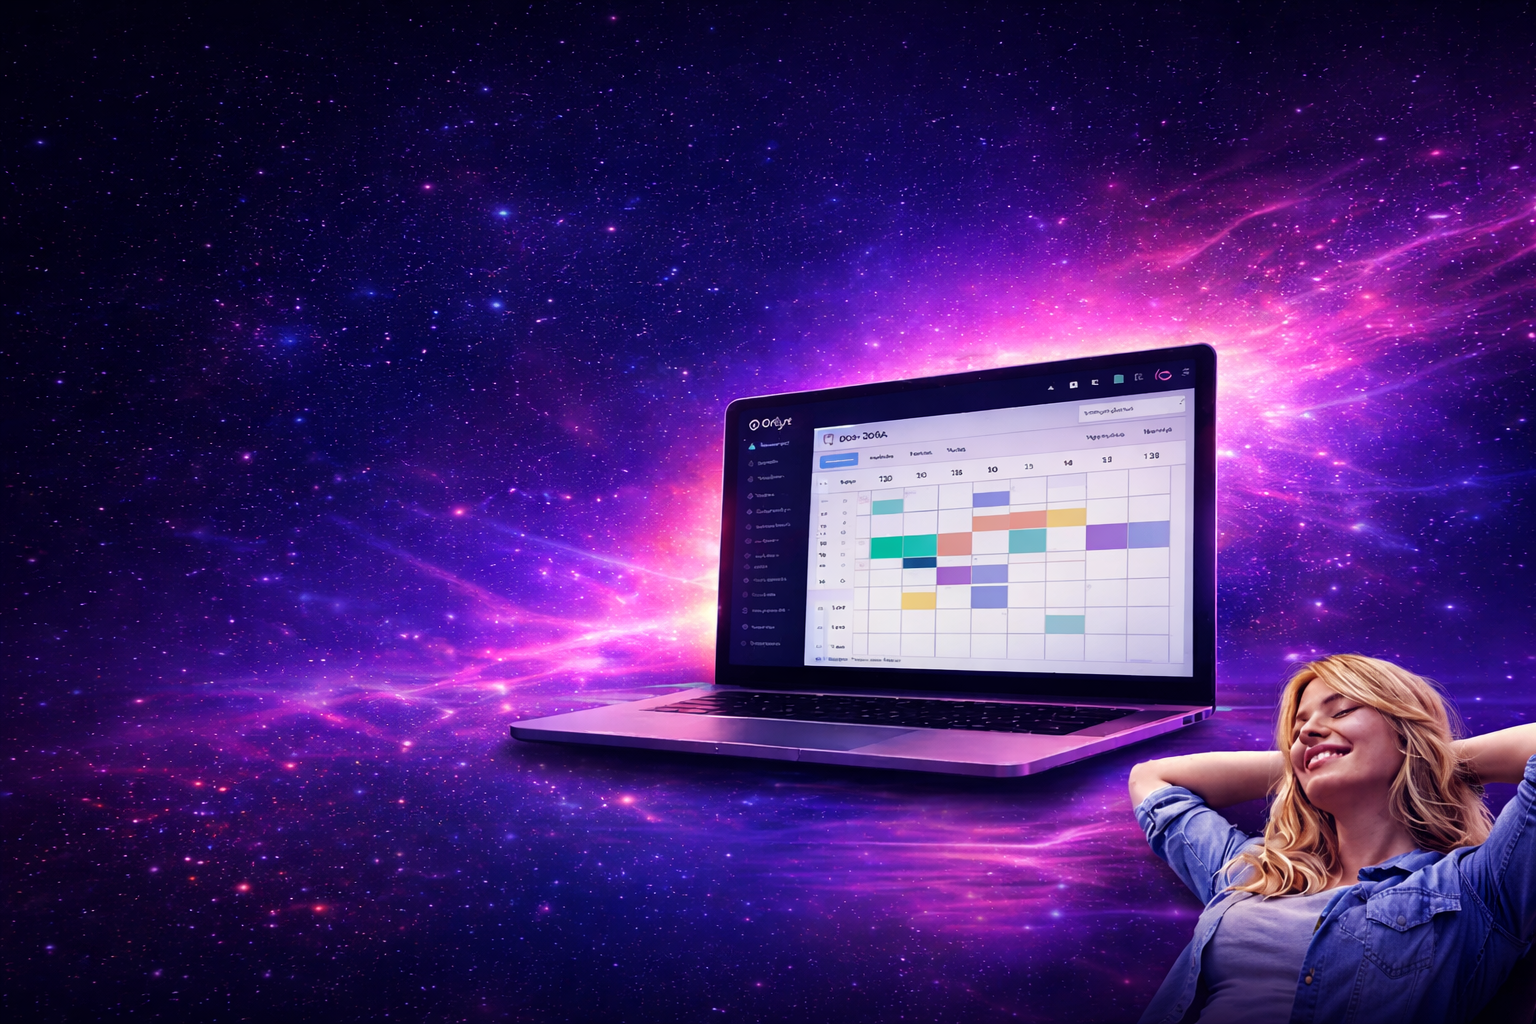
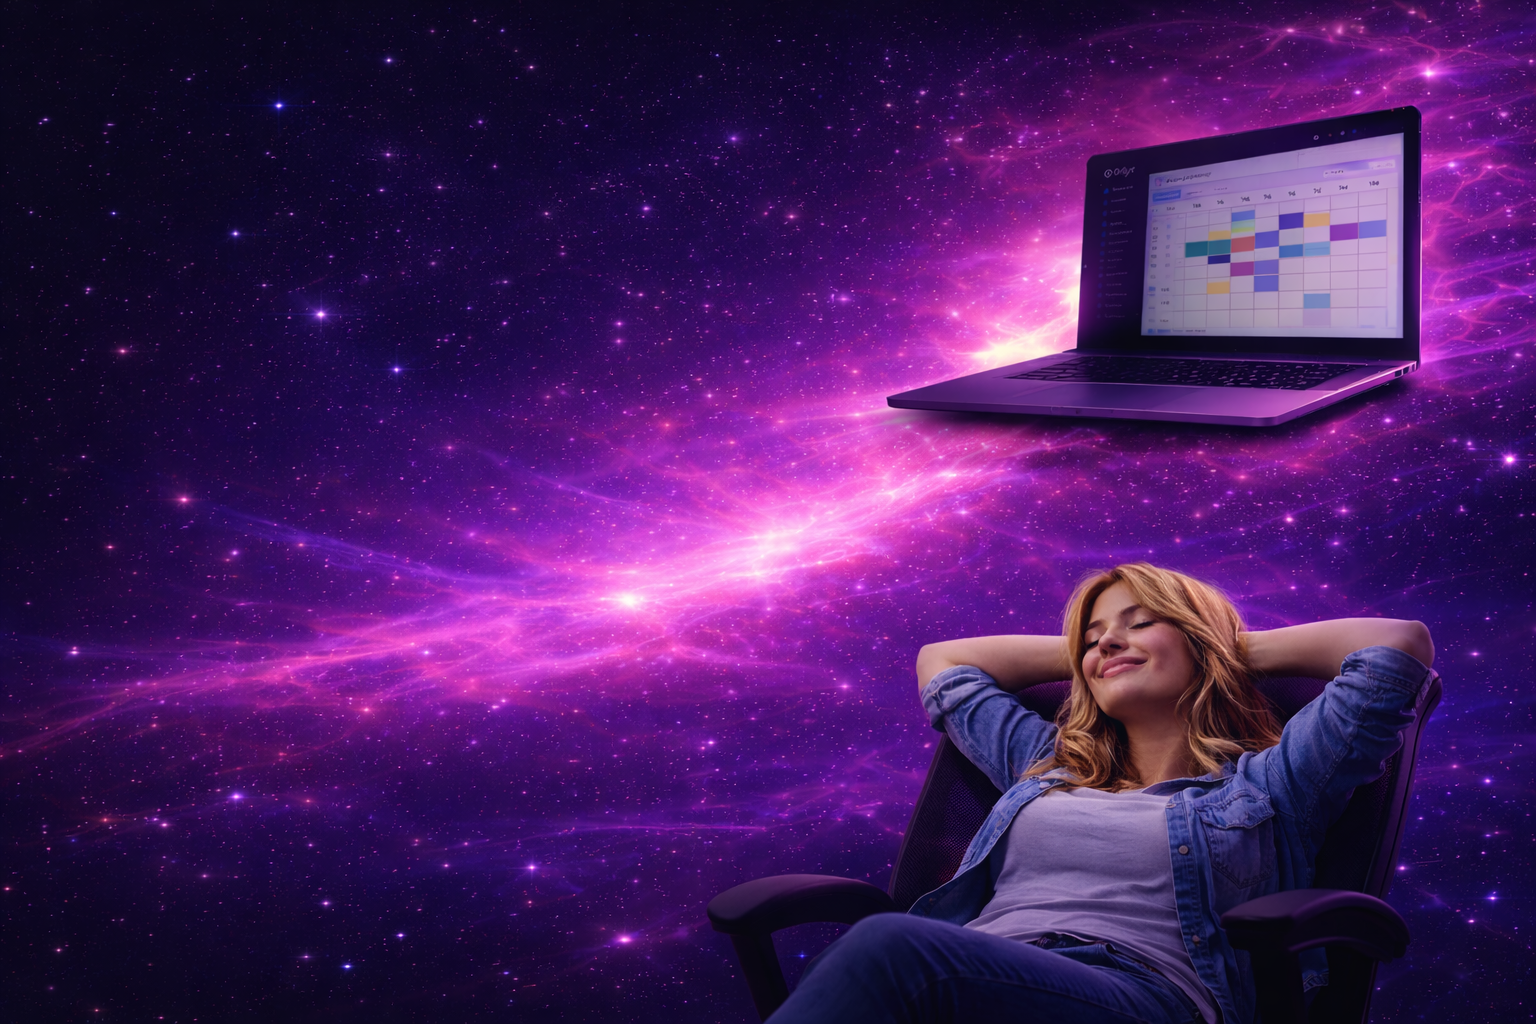
raise hero content and animate whatsapp chats

diff --git a/app/page.tsx b/app/page.tsx
@@ -13,6 +13,13 @@ export default function OrbyxLandingPage() {
     { label: "Ver planes", href: "/planes" },
   ];
 
+  const floatTransition = {
+    duration: 4,
+    repeat: Infinity,
+    repeatType: "mirror" as const,
+    ease: "easeInOut" as const,
+  };
+
   return (
     <main className="min-h-screen bg-[#050816] text-white">
       <section className="relative overflow-hidden">
@@ -22,19 +29,19 @@ export default function OrbyxLandingPage() {
             alt="Hero"
             fill
             priority
-            className="object-cover object-right"
+            className="object-cover object-right-top"
           />
         </div>
 
-        <div className="absolute inset-0 bg-gradient-to-r from-[#050816] via-[#050816]/90 to-transparent" />
+        <div className="absolute inset-0 bg-[linear-gradient(90deg,rgba(5,8,22,0.96)_0%,rgba(5,8,22,0.92)_22%,rgba(5,8,22,0.68)_40%,rgba(5,8,22,0.24)_60%,rgba(5,8,22,0.06)_76%,rgba(5,8,22,0)_100%)]" />
 
         <div className="relative z-20 mx-auto max-w-[1400px] px-6 pt-6">
-          <header className="grid grid-cols-[auto_1fr_auto] items-center gap-6">
+          <header className="grid grid-cols-[auto_1fr_auto] items-center">
             <Link href="/" className="text-2xl font-semibold">
               Orbyx
             </Link>
 
-            <nav className="hidden lg:flex items-center justify-center gap-10">
+            <nav className="hidden lg:flex justify-center gap-10">
               {navItems.map((item) => (
                 <Link
                   key={item.label}
@@ -57,24 +64,15 @@ export default function OrbyxLandingPage() {
           </header>
         </div>
 
-        <div className="relative z-20 mx-auto max-w-[1400px] px-6 py-20">
-          <div className="flex min-h-[700px] items-center">
-            <div className="max-w-[650px]">
-              <motion.div
-                initial={{ opacity: 0, y: 14 }}
-                animate={{ opacity: 1, y: 0 }}
-                className="inline-flex items-center gap-2 rounded-full bg-white/10 px-4 py-2 text-sm backdrop-blur-md"
-              >
+        <div className="relative z-20 mx-auto max-w-[1400px] px-6 pb-16 pt-8">
+          <div className="flex min-h-[760px] items-start">
+            <div className="max-w-[650px] pt-24">
+              <div className="inline-flex items-center gap-2 rounded-full bg-white/10 px-4 py-2 text-sm backdrop-blur">
                 <Sparkles className="h-4 w-4" />
                 Automatiza todo por WhatsApp
-              </motion.div>
+              </div>
 
-              <motion.h1
-                initial={{ opacity: 0, y: 14 }}
-                animate={{ opacity: 1, y: 0 }}
-                transition={{ delay: 0.08 }}
-                className="mt-8 text-[60px] font-semibold leading-[1] tracking-[-0.03em]"
-              >
+              <h1 className="mt-8 text-[60px] font-semibold leading-[1] tracking-[-0.03em]">
                 Orbyx trabaja por ti:
                 <br />
                 responde, agenda y
@@ -84,47 +82,36 @@ export default function OrbyxLandingPage() {
                 <span className="bg-gradient-to-r from-blue-300 via-purple-300 to-pink-300 bg-clip-text text-transparent">
                   automáticamente
                 </span>
-              </motion.h1>
+              </h1>
 
-              <motion.p
-                initial={{ opacity: 0, y: 14 }}
-                animate={{ opacity: 1, y: 0 }}
-                transition={{ delay: 0.14 }}
-                className="mt-6 max-w-[620px] text-lg leading-8 text-slate-300"
-              >
+              <p className="mt-6 max-w-[620px] text-lg text-slate-300">
                 Automatiza respuestas, agenda y seguimiento sin esfuerzo.
-              </motion.p>
+              </p>
 
-              <motion.div
-                initial={{ opacity: 0, y: 14 }}
-                animate={{ opacity: 1, y: 0 }}
-                transition={{ delay: 0.2 }}
-                className="mt-8 flex flex-wrap gap-4"
-              >
+              <div className="mt-8 flex gap-4">
                 <Link
                   href="/register"
-                  className="rounded-2xl bg-gradient-to-r from-emerald-400 to-emerald-600 px-6 py-3 font-semibold text-white shadow-[0_12px_30px_rgba(16,185,129,0.28)] transition hover:scale-105"
+                  className="rounded-xl bg-emerald-500 px-6 py-3 font-semibold transition hover:scale-105"
                 >
                   Probar gratis
                 </Link>
 
                 <Link
                   href="/planes"
-                  className="rounded-2xl border border-white/30 bg-white/10 px-6 py-3 font-semibold backdrop-blur-md transition hover:bg-white/15"
+                  className="rounded-xl border border-white/30 bg-white/10 px-6 py-3 font-semibold transition hover:bg-white/15"
                 >
                   Ver planes
                 </Link>
-              </motion.div>
+              </div>
             </div>
 
-            <div className="relative hidden h-[560px] flex-1 lg:block">
+            <div className="relative hidden h-[700px] flex-1 lg:block">
               <motion.div
-                initial={{ opacity: 0, y: -10 }}
-                animate={{ opacity: 1, y: 0 }}
-                transition={{ delay: 0.25 }}
-                className="absolute right-10 top-8 flex gap-4"
+                animate={{ y: [0, -10, 0] }}
+                transition={{ ...floatTransition, delay: 0 }}
+                className="absolute right-12 top-16 flex gap-4"
               >
-                <div className="rounded-2xl border border-white/15 bg-white/10 px-5 py-4 backdrop-blur-md">
+                <div className="rounded-3xl border border-white/15 bg-white/10 px-5 py-4 backdrop-blur-md shadow-[0_12px_40px_rgba(0,0,0,0.22)]">
                   <div className="text-3xl font-semibold leading-none">+24</div>
                   <div className="mt-1 text-sm text-white/80">
                     agendamientos
@@ -133,7 +120,7 @@ export default function OrbyxLandingPage() {
                   </div>
                 </div>
 
-                <div className="rounded-2xl border border-white/15 bg-white/10 px-5 py-4 backdrop-blur-md">
+                <div className="rounded-3xl border border-white/15 bg-white/10 px-5 py-4 backdrop-blur-md shadow-[0_12px_40px_rgba(0,0,0,0.22)]">
                   <div className="text-3xl font-semibold leading-none">+21</div>
                   <div className="mt-1 text-sm text-white/80">
                     clientes confirmaron
@@ -142,7 +129,7 @@ export default function OrbyxLandingPage() {
                   </div>
                 </div>
 
-                <div className="rounded-2xl border border-white/15 bg-white/10 px-5 py-4 backdrop-blur-md">
+                <div className="rounded-3xl border border-white/15 bg-white/10 px-5 py-4 backdrop-blur-md shadow-[0_12px_40px_rgba(0,0,0,0.22)]">
                   <div className="text-3xl font-semibold leading-none">+22</div>
                   <div className="mt-1 text-sm text-white/80">
                     volvieron a agendar
@@ -153,67 +140,83 @@ export default function OrbyxLandingPage() {
               </motion.div>
 
               <motion.div
-                initial={{ opacity: 0, x: 20, y: 10 }}
-                animate={{ opacity: 1, x: 0, y: 0 }}
-                transition={{ delay: 0.4 }}
-                className="absolute right-32 top-40 max-w-[290px] rounded-2xl bg-emerald-500/90 px-4 py-3 text-sm text-[#06210f] shadow-xl backdrop-blur-md"
+                animate={{ y: [0, -12, 0], x: [0, 6, 0] }}
+                transition={{ ...floatTransition, delay: 0.2 }}
+                className="absolute right-24 top-44 flex justify-end"
               >
-                ¿Tienen horas disponibles mañana?
+                <div className="max-w-[290px] rounded-[22px] rounded-tr-md bg-[#25D366] px-4 py-3 text-sm text-[#06210f] shadow-[0_12px_30px_rgba(37,211,102,0.28)]">
+                  <div className="mb-1 text-[11px] font-semibold text-black/55">
+                    Cliente
+                  </div>
+                  ¿Tienen horas disponibles mañana?
+                </div>
               </motion.div>
 
               <motion.div
-                initial={{ opacity: 0, x: 20, y: 10 }}
-                animate={{ opacity: 1, x: 0, y: 0 }}
-                transition={{ delay: 0.7 }}
-                className="absolute right-52 top-56 max-w-[320px] rounded-2xl border border-white/10 bg-[#171b3a]/85 px-4 py-3 text-sm text-white shadow-xl backdrop-blur-md"
+                animate={{ y: [0, 10, 0], x: [0, -6, 0] }}
+                transition={{ ...floatTransition, delay: 0.6 }}
+                className="absolute right-44 top-[295px] flex justify-start"
               >
-                Sí, tengo disponibilidad. Te muestro 10:00 y 11:00.
+                <div className="max-w-[320px] rounded-[22px] rounded-tl-md border border-white/10 bg-[#1d2348]/90 px-4 py-3 text-sm text-white shadow-[0_12px_30px_rgba(0,0,0,0.28)] backdrop-blur-md">
+                  <div className="mb-1 text-[11px] font-semibold text-emerald-300/90">
+                    IA Orbyx
+                  </div>
+                  Sí, tengo disponibilidad. Tenemos a las 10:00 y 11:00.
+                </div>
               </motion.div>
 
               <motion.div
-                initial={{ opacity: 0, x: 20, y: 10 }}
-                animate={{ opacity: 1, x: 0, y: 0 }}
-                transition={{ delay: 1 }}
-                className="absolute right-20 top-[330px] max-w-[260px] rounded-2xl bg-emerald-500/90 px-4 py-3 text-sm text-[#06210f] shadow-xl backdrop-blur-md"
+                animate={{ y: [0, -8, 0], x: [0, 8, 0] }}
+                transition={{ ...floatTransition, delay: 1 }}
+                className="absolute right-8 top-[430px] flex justify-end"
               >
-                El de las 11:00, por favor.
+                <div className="max-w-[250px] rounded-[22px] rounded-tr-md bg-[#25D366] px-4 py-3 text-sm text-[#06210f] shadow-[0_12px_30px_rgba(37,211,102,0.28)]">
+                  <div className="mb-1 text-[11px] font-semibold text-black/55">
+                    Cliente
+                  </div>
+                  El de las 11:00, por favor.
+                </div>
               </motion.div>
 
               <motion.div
-                initial={{ opacity: 0, x: 20, y: 10 }}
-                animate={{ opacity: 1, x: 0, y: 0 }}
-                transition={{ delay: 1.3 }}
-                className="absolute right-44 top-[420px] max-w-[280px] rounded-2xl border border-white/10 bg-[#171b3a]/85 px-4 py-3 text-sm text-white shadow-xl backdrop-blur-md"
+                animate={{ y: [0, 10, 0], x: [0, -5, 0] }}
+                transition={{ ...floatTransition, delay: 1.4 }}
+                className="absolute right-34 top-[540px] flex justify-start"
               >
-                Listo ✅ Tu cita quedó confirmada.
+                <div className="max-w-[280px] rounded-[22px] rounded-tl-md border border-white/10 bg-[#1d2348]/90 px-4 py-3 text-sm text-white shadow-[0_12px_30px_rgba(0,0,0,0.28)] backdrop-blur-md">
+                  <div className="mb-1 text-[11px] font-semibold text-emerald-300/90">
+                    IA Orbyx
+                  </div>
+                  Listo ✅ Tu cita quedó confirmada.
+                </div>
               </motion.div>
             </div>
           </div>
         </div>
       </section>
 
-      <section id="funcionalidades" className="relative bg-[#050816] py-20">
-        <div className="mx-auto max-w-[1300px] px-6">
-          <div className="grid gap-6 md:grid-cols-3">
-            <div className="rounded-2xl border border-white/10 bg-white/[0.04] p-6 backdrop-blur-sm">
-              <h3 className="font-semibold">Más reservas</h3>
-              <p className="mt-2 text-sm text-slate-300">
-                Más respuestas a tiempo y menos clientes perdidos.
-              </p>
+      <section className="py-20">
+        <div className="mx-auto max-w-[1100px] px-6 text-center">
+          <h2 className="text-3xl font-semibold">
+            Inteligencia artificial que trabaja por tu negocio
+          </h2>
+
+          <p className="mx-auto mt-6 max-w-[700px] text-slate-300">
+            Orbyx responde automáticamente a tus clientes, agenda citas y hace
+            seguimiento sin intervención manual. Todo adaptado a tu negocio.
+          </p>
+
+          <div className="mt-10 grid gap-6 md:grid-cols-3">
+            <div className="rounded-xl border border-white/10 bg-white/5 p-6">
+              Responde clientes automáticamente
             </div>
 
-            <div className="rounded-2xl border border-white/10 bg-white/[0.04] p-6 backdrop-blur-sm">
-              <h3 className="font-semibold">Menos inasistencias</h3>
-              <p className="mt-2 text-sm text-slate-300">
-                Confirmaciones y recordatorios automáticos antes de cada cita.
-              </p>
+            <div className="rounded-xl border border-white/10 bg-white/5 p-6">
+              Agenda sin intervención
             </div>
 
-            <div className="rounded-2xl border border-white/10 bg-white/[0.04] p-6 backdrop-blur-sm">
-              <h3 className="font-semibold">Menos carga manual</h3>
-              <p className="mt-2 text-sm text-slate-300">
-                Agenda, seguimiento y atención desde un mismo sistema.
-              </p>
+            <div className="rounded-xl border border-white/10 bg-white/5 p-6">
+              Recupera clientes perdidos
             </div>
           </div>
         </div>
